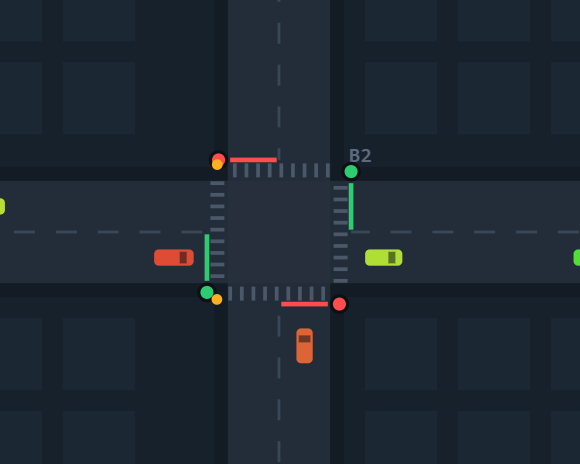
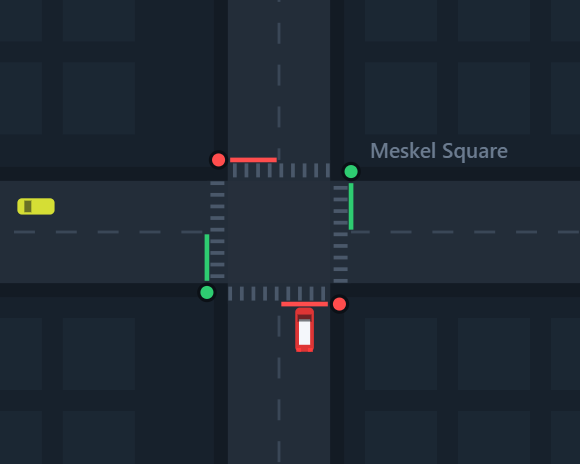
Update README results and screenshots for the Addis Ababa setting

diff --git a/README.md b/README.md
@@ -1,6 +1,6 @@
-# Gridlock: City Traffic Simulation
+# Gridlock: Addis Ababa Traffic Simulation
 
-An interactive, browser-based traffic simulation of a 3×3 grid of signalised junctions. Vehicles drive routed trips with a car-following model, queue and spill back, yield on permissive left turns and stop for pedestrians. Four traffic-signal strategies, from a fixed timer to a max-pressure controller, can be compared live or in a headless benchmark that runs inside the page.
+An interactive, browser-based traffic simulation of nine well-known Addis Ababa junctions, from Piassa and Arat Kilo in the north to Meskel Square in the centre and Bole in the south-east. Cars and blue-and-white minibus taxis drive routed trips with a car-following model, queue and spill back, yield on permissive left turns and stop for pedestrians. Taxis pull over at the kerb to pick up passengers and hold up the traffic behind them. Four traffic-signal strategies, from a fixed timer to a max-pressure controller, can be compared live or in a headless benchmark that runs inside the page.
 
 **Live demo:** https://delilahg.github.io/gridlock-traffic-simulation/
 
@@ -12,7 +12,17 @@ An interactive, browser-based traffic simulation of a 3×3 grid of signalised ju
 
 ## Features
 
-- **Road network**: 9 junctions, 48 single-lane links and 108 turning movements. Every movement is a real geometric path: straight lines, plus circular arcs for turns.
+- **Addis Ababa junctions**: the nine junctions are named after real ones and placed roughly by compass direction (north at the top):
+
+  | | West | Centre | East |
+  | --- | --- | --- | --- |
+  | **North** | Piassa | Arat Kilo | Megenagna |
+  | **Middle** | Mexico | Meskel Square | Kazanchis |
+  | **South** | Sarbet | Gotera | Bole |
+
+  The layout is a stylised grid, not a map: distances, street widths and the real street pattern are not to scale.
+- **Road network**: 9 junctions, 48 single-lane links and 108 turning movements. Every movement is a real geometric path: straight lines, plus circular arcs for turns. Traffic drives on the right, as in Ethiopia.
+- **Minibus taxis**: a configurable share of vehicles (25% by default) are minibus taxis in the blue-and-white Addis livery. Each taxi plans kerbside stops along its route, brakes to a stop, dwells for 3–8 s with its hazard lights on, then pulls away. On single-lane roads everyone behind it waits, which is a major source of delay.
 - **Vehicle dynamics**: the [Intelligent Driver Model](https://en.wikipedia.org/wiki/Intelligent_driver_model) (IDM) handles acceleration, comfortable braking, speed-dependent following gaps and stopping at lines. Each driver has their own desired speed, and roughly 8% of vehicles are longer vans.
 - **Routing**: each vehicle gets an origin–destination trip and follows a Dijkstra shortest path, weighted by free-flow time plus turn penalties. An optional *congestion-aware routing* mode re-plans each departure around current queues.
 - **Junction safety logic**:
@@ -25,10 +35,11 @@ An interactive, browser-based traffic simulation of a 3×3 grid of signalised ju
 - **Four signal strategies**: Fixed timer, Green wave (coordinated offsets), Actuated (gap-out detectors), and Max-pressure.
 - **Configurable timing**: green times, min/max green, gap-out, amber and all-red. Changes apply to the running simulation.
 - **Controls**: start, pause, resume, step one second, reset, five simulation speeds (½× to 8×), and a reproducible random seed. Keyboard shortcuts: <kbd>Space</kbd> start/pause, <kbd>R</kbd> reset, <kbd>→</kbd> step.
-- **Demand**: total vehicles per minute, the east–west/north–south split, and pedestrian rate.
+- **Demand**: total vehicles per minute, the east–west/north–south split, the minibus taxi share, and pedestrian rate.
 - **Live metrics**:
   - average speed, exits per minute, average delay, time stopped
   - vehicles on the road, stopped, and waiting to enter (spillback)
+  - taxis on the road, taxis stopped at the kerb, and completed pick-ups
   - pedestrian counts and waits
   - 3-minute sparklines
   - a network state badge (Free flow / Busy / Heavy / Gridlock)
@@ -100,28 +111,37 @@ Browser tests use the preinstalled Microsoft Edge on Windows, so nothing needs t
 - *Simulation, other*: determinism by seed, vehicle conservation, saturation behaviour without NaNs, live demand, pedestrian and timing changes, and a per-step performance budget.
 - *Browser*: ready state, start/pause/resume/reset, single step, keyboard shortcuts, mode switching with matching timing controls, live sliders, seed, junction inspector, the full benchmark, mobile layout without horizontal scroll, and no console errors.
 
-Latest local run: lint clean, **32/32** unit tests and **10/10** browser tests passing.
+Latest local run: lint clean, **37/37** unit tests and **10/10** browser tests passing.
 
 ## Results: does adaptive control help?
 
-Average delay per trip (actual trip time minus free-flow trip time), averaged over 4 seeds, with 1 min warm-up and 5 min measured. Pedestrians are on, at 12/min. Lowest delay is in bold; throughput is in exits per minute.
+Average delay per trip (actual trip time minus free-flow trip time), averaged over 4 seeds, with 1 min warm-up and 5 min measured. Pedestrians are on, at 12/min, and 25% of vehicles are minibus taxis. Lowest delay is in bold; throughput is in exits per minute.
 
 | Scenario | Fixed | Green wave | Actuated | Max-pressure |
 |---|---|---|---|---|
-| Light (15 veh/min) | 23.4 s · 17/min | 25.8 s · 17/min | 17.0 s · 17/min | **16.6 s** · 17/min |
-| Moderate (30) | 25.2 s · 28/min | 29.2 s · 31/min | 26.0 s · 29/min | **21.8 s** · 30/min |
-| Default (45) | 41.3 s · 41/min | 40.5 s · 41/min | 38.5 s · 43/min | **36.5 s** · 44/min |
-| Unbalanced (45, 75% E–W) | 42.9 s · 40/min | 44.3 s · 41/min | 41.0 s · 41/min | **40.7 s** · 40/min |
-| Near saturation (60) | **53.0 s** · 47/min | 59.6 s · 46/min | 54.2 s · 48/min | 54.5 s · 47/min |
+| Light (15 veh/min) | 34.7 s · 15/min | 34.1 s · 15/min | 23.9 s · 16/min | **22.0 s** · 16/min |
+| Moderate (30) | 37.2 s · 27/min | 39.9 s · 29/min | 30.8 s · 28/min | **29.0 s** · 28/min |
+| Default (45) | 53.8 s · 41/min | 58.6 s · 40/min | 51.1 s · 39/min | **46.7 s** · 41/min |
+| Unbalanced (45, 75% E–W) | 58.5 s · 38/min | 56.7 s · 38/min | 59.7 s · 41/min | **53.5 s** · 38/min |
+| Near saturation (60) | 68.7 s · 39/min | 75.3 s · 38/min | 74.3 s · 39/min | **63.9 s** · 44/min |
+
+How much the taxis' kerbside stops cost, at the default load (45 veh/min, same seeds):
+
+| Taxi share | Fixed | Max-pressure | Taxi pick-ups / min |
+|---|---|---|---|
+| 0% | 42.0 s | 31.3 s | 0 |
+| 25% (default) | 53.8 s | 46.7 s | 17.5 |
+| 50% | 70.8 s | 55.3 s | 33.8 |
 
 What this shows:
 
-- Demand-responsive control helps most when traffic is light or moderate: max-pressure cuts delay by about 29% at 15 veh/min and 12% at the default load.
-- Near saturation, long fixed cycles are as good or better. Every phase change wastes about 4 s of amber and all-red, and capacity is ultimately limited by single-lane approaches where one waiting left-turner blocks everyone behind it.
+- Max-pressure had the lowest average delay in every scenario: about 37% less than fixed timing in light traffic, 13% at the default load, and 7% near saturation.
+- Kerbside taxi stops are expensive on single-lane streets. Going from no taxis to a 50% share raises delay under fixed timing by about 70% (29 s per trip). Max-pressure's delay rises by a similar proportion, but it loses fewer seconds (24 s) and stays the lower of the two.
+- Actuated control does well in light traffic but loses its advantage under heavier load.
 - The green wave only coordinates eastbound progression. On a grid with two-way traffic and short north–south blocks, it doesn't beat a plain fixed timer.
-- Results vary from seed to seed, which is why the table averages four seeds. The in-app benchmark uses a single seed, so expect some variation there.
+- Results vary from seed to seed, which is why the tables average four seeds. The in-app benchmark uses a single seed, so expect some variation there.
 
-These numbers come from this model and are useful for comparing strategies. They are not calibrated predictions for any real city.
+These numbers come from this model and are useful for comparing strategies. They are not calibrated against measured Addis Ababa traffic data.
 
 ## Architecture
 
@@ -159,7 +179,8 @@ scripts/screenshots.mjs  regenerates docs/screenshots from the real build
 - Pedestrians cross only at junction crosswalks and don't have their own walk signals or push buttons. A pedestrian who has waited more than 10 s counts as demand for adaptive controllers.
 - The green-wave plan is computed when the simulation is built. Changing green times afterwards keeps the cycles aligned but doesn't recompute the optimal offsets.
 - `npm audit` reports a moderate advisory in `minimatch`, pulled in by ESLint. It only affects the local lint tooling, not the shipped app.
-- The model is uncalibrated. Use it to compare strategies, not to predict a real city.
+- The Addis Ababa setting is a stylised grid using real junction names. It is not a map, and timings, speeds (a generic 50 km/h urban limit) and demand are not calibrated against measured Addis Ababa data. Use it to compare strategies, not to predict real traffic.
+- Taxis stop in the running lane at randomly chosen points. They don't use designated taxi stands, and each stop is placed far enough from the junction behind it that a queued vehicle never blocks the box. Other modes common in the city, such as Anbessa buses, three-wheelers and the light rail, are not modelled.
 
 ## Possible improvements
 
